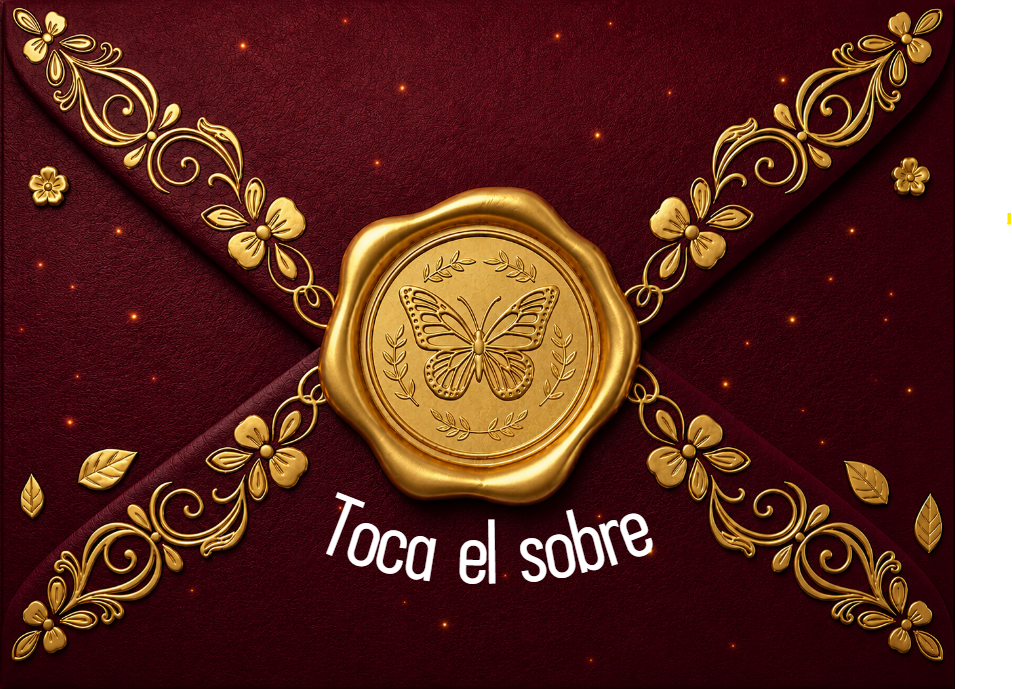
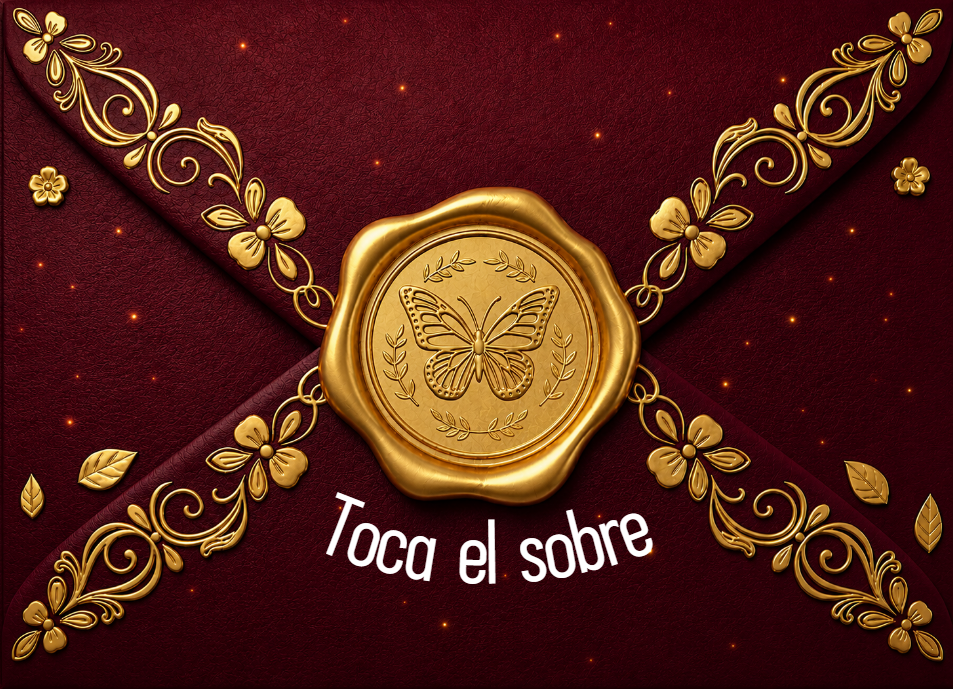
dasbndkjabnknfdaks

diff --git a/index.html b/index.html
@@ -27,7 +27,6 @@
             height: 100vh;
             max-height: 800px;
             position: relative;
-            box-shadow: 0 10px 25px rgba(0,0,0,0.15);
             overflow: hidden;
             background-color: #fff;
         }
@@ -41,12 +40,13 @@
         }
 
         /* Enlace del sobre posicionado exactamente en el centro */
-        .envelope-link {
+       .envelope-link {
             position: absolute;
             top: 50%;
             left: 50%;
-            transform: translate(-47%, -50%);
-            width: 85%; /* Controla el ancho del sobre dentro del teléfono */
+            /* Reemplazamos la transformación anterior por la compensación exacta para el centro */
+            transform: translate(-50%, -50%);
+            width: 80%; /* Mantenemos el ancho deseado */
             display: block;
             text-decoration: none;
             cursor: pointer;